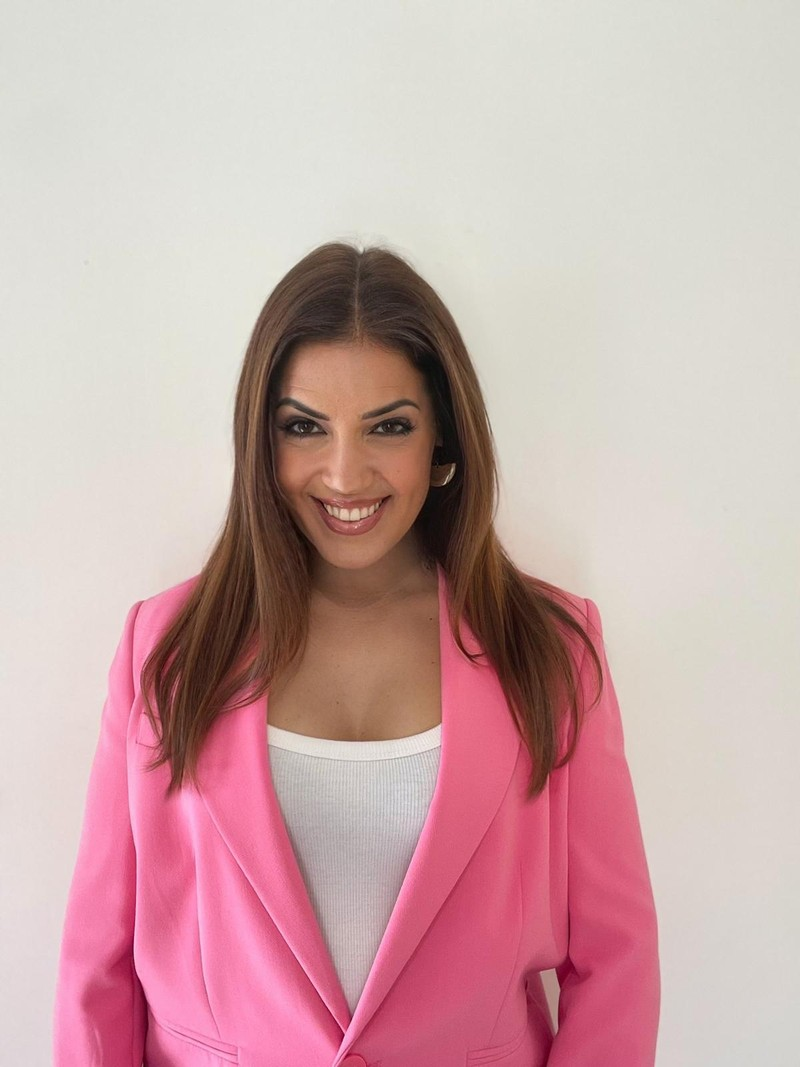
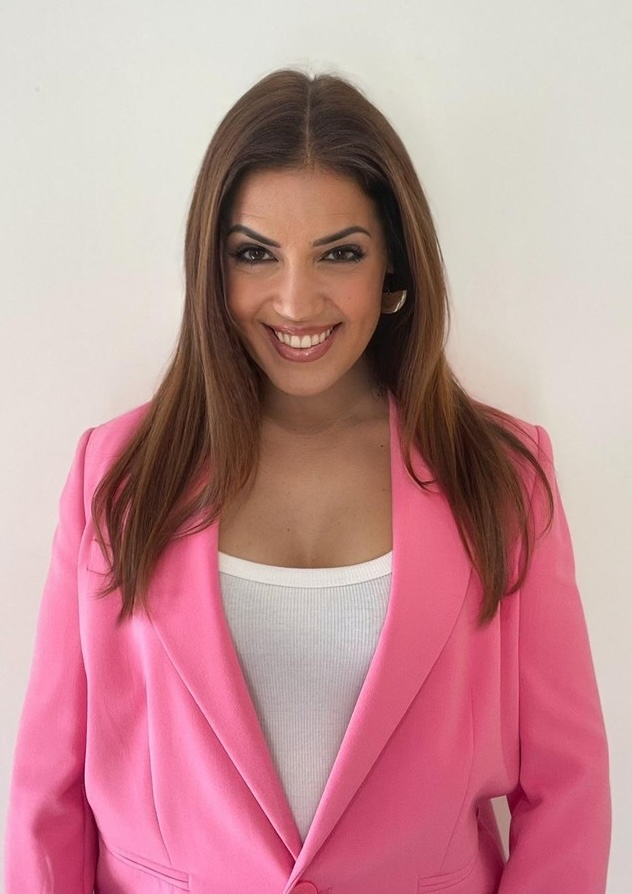
img

diff --git a/formazione.html b/formazione.html
@@ -250,7 +250,7 @@
           <h2 style="margin:0.8rem 0 1.5rem;">Corsi Serali per Adulti</h2>
           <p class="testo-grande">Per chi lavora e desidera coltivare il teatro come vocazione parallela. Corsi modulari in orario serale, accessibili tramite iscrizione diretta online.</p>
           <p style="margin-top:1rem;">I corsi serali sono pensati per adulti che desiderano avvicinarsi al teatro classico senza rinunciare ai propri impegni lavorativi. Ogni corso è autonomo e può essere seguito singolarmente o in combinazione con altri.</p>
-          <a href="iscrizioni.html#serali" class="btn btn--oro" style="margin-top:2rem; display:inline-block;">Iscriviti ora</a>
+          <a href="iscrizioni.html#form-iscrizione" class="btn btn--oro" style="margin-top:2rem; display:inline-block;">Iscriviti ora</a>
         </div>
 
         <div class="griglia-2" style="gap:2rem;">

diff --git a/TECH_NOTES.md b/TECH_NOTES.md
@@ -1,0 +1,165 @@
+# TECH_NOTES — Accademia Prosopon
+
+Note tecniche per chi metterà mano al sito dopo il go-live. Non sostituiscono `README.md` (operativo); qui si spiega perché certe scelte sono state fatte.
+
+---
+
+## 1. Stack e principi
+
+- **HTML/CSS/JS vanilla**, zero build step, zero dipendenze npm.
+- Una sola **`style.css`** mobile-first con custom properties in `:root`.
+- JS inline per pagina, scritto a mano, niente framework.
+- Lingua: it (`<html lang="it">`), encoding UTF-8.
+- Hosting target: qualsiasi static host (Netlify/Vercel/Pages/server LAMP).
+
+Motivazione: sito istituzionale a contenuto a bassa frequenza di update, basso volume, alta longevità. Un build step obbligherebbe il committente a ricostruirlo a ogni piccola modifica testuale; un framework introdurrebbe debito tecnico.
+
+---
+
+## 2. Pagine
+
+| File | Note tecniche |
+|------|----------------|
+| `index.html` | Hero LCP-critical (no `loading="lazy"` sull'immagine fold). JSON-LD `EducationalOrganization` solo qui. CTA hero: "Iscriviti alle audizioni" + "Scopri il triennio". |
+| `accademia.html` | Anchor `#direttore-artistico`. Sezione "Voci" (`#voci`) con 3 quote, l'ultima placeholder onesto. |
+| `formazione.html` | 4 tab WAI-ARIA (`role="tablist"` / `role="tab"` / `role="tabpanel"`). Navigazione tastiera frecce/Home/End. Ancore mobile sticky `.ancore-corsi`. |
+| `docenti.html` | 8 modali full-screen, focus trap, riapertura via hash (`#nome-docente` → JS apre `#modale-nome-docente`). 7 link CV (Pentericci esclusa). |
+| `eventi.html` | 4 card placeholder con CTA "Avvisami quando esce" → newsletter. Stato "vuoto" evocativo. |
+| `iscrizioni.html` | 2 form (audizione triennale, iscrizione corsi serali) + FAQ accordion accessibile. Banda scarcity sotto hero. |
+| `contatti.html` | Form contatto + form newsletter. Pre-compilazione oggetto via querystring `?richiesta=piano-triennale`. Direzione artistica + Segreteria. |
+| `privacy.html` | `noindex, follow`. Index interno cliccabile. Tabelle dati/finalità. |
+| `cookie.html` | `noindex, follow`. Snippet cookie banner pronto in `<pre>` commentato (non attivo). |
+
+---
+
+## 3. Architettura CSS
+
+### Custom properties (`:root`)
+
+```css
+--color-nero            #0e0d0b
+--color-grafite         (sezioni scure)
+--color-avorio          #f5f0e8        (background avorio chiaro)
+--color-avorio-scuro    (background blocchi info)
+--color-oro             #b8965a        (accent primario)
+--color-oro-chiaro      (accent su sfondo scuro)
+--color-oro-scuro       (border / dettagli)
+--color-link            #7a5f30        (link inline su avorio, AA ≥ 5.12:1)
+--color-grigio          (testo secondario)
+--color-grigio-chiaro   #a09a92        (testo footer su nero, AA ≥ 6.4:1)
+
+--font-titolo           'Cinzel', serif        (etichette)
+--font-display          'Cormorant Garamond'   (h1, h2)
+--font-corpo            'EB Garamond'          (paragrafi)
+```
+
+### Convenzioni di naming
+
+Ibrido BEM + utility class. Esempio:
+
+- `nav__menu`, `nav__link`, `nav__cta`         (BEM block-element)
+- `card`, `card--centro`, `card--padding-lg`   (BEM modifier)
+- `card__icona`, `card__titolo`, `card__testo` (BEM element)
+- `.spazio-sopra-md`, `.testo-centrato`        (utility)
+- `.btn`, `.btn--oro`, `.btn--contorno`        (componenti)
+
+### Regole globali importanti
+
+- `:focus-visible` outline oro 2px su `a, button, input, select, textarea` (a11y).
+- `.skip-link` come primo elemento di ogni `<body>` (a11y).
+- `main p a:not(.btn), main li a:not(.btn)` → underline + `text-underline-offset` (link inline ben distinguibili).
+- `.sezione--scura` ha override per link inline (oro chiaro invece di `--color-link`).
+- `.form-errore` con `aria-live="polite"` su input.
+- `.form-reassurance` micro-rassicurazioni accanto al submit (Neuro).
+- `.banda-scarcity` strip dorata per urgency etico.
+
+---
+
+## 4. Flusso form (Formspree)
+
+Tutti e 4 i form puntano a `https://formspree.io/f/REPLACE_WITH_YOUR_ID` e vanno aggiornati con l'ID reale prima del go-live (vedi `TODO.md` blocco placeholder).
+
+Pattern condiviso:
+
+1. `<form>` con `action`, `method="POST"`, `novalidate` (la validazione è fatta da JS per offrire messaggi in voce di brand).
+2. Per ogni input: `<label>` + `<input>` + `<span class="form-errore" aria-live="polite">`.
+3. JS: funzione `validaCampo(input)` per ogni `blur` e `submit`. Mappa `MSG_VUOTO` per nome campo → messaggio brand-coerente.
+4. `<div class="form-stato" role="status" aria-live="polite">` riceve gli stati di submit (loading/success/error) annunciati a screen reader.
+5. Checkbox `name="consenso_privacy" required` con link a `privacy.html` (target `_blank`).
+6. `.form-reassurance` accanto al pulsante con micro-rassicurazioni ("Risposta entro 48h", "Niente spam"…).
+
+### Pre-compilazione oggetto
+
+`contatti.html` legge `?richiesta=piano-triennale` (querystring) e pre-compila il campo `oggetto` con valore tematico. Il link che attiva questo flusso è in `formazione.html:170` ("Richiedi il piano di studi").
+
+---
+
+## 5. SEO
+
+- `<link rel="canonical">` su tutte e 9 le pagine.
+- Open Graph completo (`og:type`, `og:locale=it_IT`, `og:title`, `og:description`, `og:image`, `og:url`, `og:site_name`).
+- Twitter Card (`twitter:card=summary_large_image` + tag relativi) sulle 7 pagine pubbliche.
+- `JSON-LD` `EducationalOrganization` solo su `index.html`.
+- `sitemap.xml` (esclude privacy/cookie, che hanno `noindex`).
+- `robots.txt` con `Disallow: /documenti/` (CV interni).
+- `<meta name="description">` unico per pagina (≤155 char).
+- `<meta robots="noindex, follow">` su `privacy.html` e `cookie.html`.
+
+---
+
+## 6. Accessibilità
+
+- Skip link "Vai al contenuto" come primo elemento del `<body>`.
+- `<header>` semantico per nav, `<main id="contenuto">`, `<footer>`.
+- `aria-current="page"` sul link nav della pagina attiva (sulle 7 pagine pubbliche).
+- Hamburger menu: `aria-expanded`, `aria-controls`.
+- FAQ accordion: `aria-expanded`, `aria-controls`, `id`, wrapping `<h3>`.
+- Tab formazione: `role="tablist"`, `role="tab"`, `role="tabpanel"`, `aria-selected`, navigazione tastiera con frecce/Home/End.
+- Modali docenti: `role="dialog"`, `aria-modal="true"`, `aria-labelledby`, focus trap, ripristino focus alla chiusura, gestione `Esc` e click outside, gestione `Space` oltre a `Enter`.
+- `:focus-visible` globale outline oro 2px.
+- Tutti gli `img` hanno `alt` significativo (pattern "Ritratto di X").
+- Tutti gli `img` hanno `width`/`height` espliciti (anti-CLS).
+- Contrasti link e testo verificati ≥ AA (vedi `--color-link` e `--color-grigio-chiaro`).
+
+---
+
+## 7. Performance
+
+- Hero `index.html`: immagine senza `loading="lazy"`, `width`/`height` esplicite.
+- Tutte le altre `<img>`: `loading="lazy"`.
+- Google Fonts caricati via `preconnect` + `<link rel="stylesheet">` con `display=swap` (no `@import` per evitare blocking-render).
+- Nessun JavaScript di terze parti caricato in fondo (solo Formspree, e solo al submit).
+- Nessun analytics → niente cookie banner → niente blocking script.
+- (Da fare a deploy time): conversione foto docenti in WebP con `<picture>` fallback per ridurre del ~60% il peso di `docenti.html`.
+
+---
+
+## 8. Privacy / GDPR
+
+- `privacy.html` copre titolare, dati raccolti, finalità + base giuridica (art. 6 GDPR), responsabili esterni (Formspree, Google Fonts), trasferimenti extra UE (SCC + DPF), tempi di conservazione, diritti artt. 15-22, modalità di esercizio, reclamo Garante.
+- `cookie.html`: nessun cookie di analytics/profilazione attualmente. Snippet banner pronto e commentato in fondo, da attivare solo se in futuro vengono introdotti analytics o cookie di terze parti non tecnici.
+- Tutti e 4 i form hanno checkbox `consenso_privacy` obbligatorio con link a `privacy.html`.
+- Newsletter: implementata oggi come singolo opt-in (Formspree). **Per essere pienamente conforme si raccomanda di passare a un provider con double-opt-in (Mailchimp/Brevo/MailerLite/...) prima del lancio attivo della newsletter.** Fino ad allora il flag è da considerarsi soft.
+
+---
+
+## 9. Dipendenze esterne (al runtime)
+
+| Servizio | Uso | Note |
+|----------|-----|------|
+| Google Fonts | Caricamento Cormorant Garamond, EB Garamond, Cinzel | Solo CSS, nessun cookie persistente. Citato in privacy/cookie. |
+| Formspree | Backend dei 4 form | Endpoint placeholder `REPLACE_WITH_YOUR_ID`. Citato in privacy/cookie. |
+
+Nessun analytics, nessun social plugin, nessun video embed, nessuna mappa interattiva, nessun CDN JS.
+
+---
+
+## 10. Limiti noti / debito tecnico
+
+- Nav e footer sono **duplicati a mano** sulle 9 pagine. Modifica = 9 edit. Soluzione futura: SSI/include o piccolo build step (Eleventy, Astro). Per ora SCOPE OUT.
+- 4 endpoint Formspree placeholder.
+- Foto docenti ancora in JPG (no WebP).
+- Favicon solo SVG; PNG 16/32 e apple-touch-icon non generabili senza tool grafico.
+- CV Pentericci mancante.
+- Indirizzo sede operativa e dati legali (P.IVA, ragione sociale) ancora placeholder in `privacy.html` e `contatti.html`.
+- Mappa in `contatti.html` è un blocco statico "in arrivo", non un embed reale.

diff --git a/README.md b/README.md
@@ -1,0 +1,134 @@
+# Accademia di Teatro Classico Prosopon — sito web
+
+Sito istituzionale statico dell'Accademia di Teatro Classico Prosopon (Roma, 2025).
+9 pagine HTML, un solo foglio di stile, zero build step, zero dipendenze JS runtime.
+
+---
+
+## Struttura del repository
+
+```
+Accademia_prosopon/
+├── index.html              # Home
+├── accademia.html          # Chi siamo, missione, direttore artistico, "Voci"
+├── formazione.html         # Triennale + serali + laboratori + masterclass (4 tab)
+├── docenti.html            # 8 docenti con modali full-screen
+├── eventi.html             # Spettacoli & eventi (placeholder + newsletter strip)
+├── iscrizioni.html         # Audizioni triennale + iscrizione corsi serali (FAQ accordion)
+├── contatti.html           # Form contatto + form newsletter
+├── privacy.html            # Informativa privacy GDPR (noindex)
+├── cookie.html             # Cookie policy (noindex)
+│
+├── style.css               # CSS unico, mobile-first, variabili in :root
+├── favicon.svg             # Lettera Π oro su nero
+├── site.webmanifest        # PWA-light manifest
+├── sitemap.xml             # Sitemap (esclude privacy/cookie noindex)
+├── robots.txt              # Disallow /documenti/ (CV interni)
+├── .gitignore
+│
+├── assets/
+│   ├── home.webp           # Hero background
+│   └── docenti/            # 8 ritratti docenti (jpg)
+│
+├── documenti/              # NON pubblicato (Disallow in robots)
+│   ├── cv/                 # 7 PDF dei CV docenti (Pentericci esclusa)
+│   ├── BIO DOCENTI .pages  # interno (ignorato via .gitignore)
+│   └── Piano di lavorazione .pages
+│
+├── TODO.md                 # Tracker dei 4 agenti senior
+├── TECH_NOTES.md           # Scelte tecniche e architettura
+└── README.md               # Questo file
+```
+
+---
+
+## Servire il sito in locale
+
+Il sito è puramente statico, quindi è sufficiente un server HTTP locale per testarlo.
+
+```bash
+# Python 3 (built-in)
+python3 -m http.server 8000
+
+# oppure Node (npx, no install)
+npx serve .
+
+# oppure PHP
+php -S localhost:8000
+```
+
+Apri quindi `http://localhost:8000` nel browser.
+
+> Nota: aprire i file con `file://` può funzionare per molte pagine, ma rompe i fetch
+> di Formspree, le ancore `?richiesta=...` e i form. Usa sempre un server locale.
+
+---
+
+## Stack
+
+- HTML5 semantico (`<header>`, `<main>`, `<article>`, `<section>`, `<footer>`)
+- CSS3 puro, custom properties, mobile-first, niente framework
+- JavaScript vanilla inline per: hamburger menu, tab, accordion FAQ, modali docenti (focus trap), validazione form
+- Google Fonts (Cormorant Garamond + EB Garamond + Cinzel) via `<link rel="preconnect">` + `display=swap`
+- Form: integrazione Formspree (endpoint placeholder, vedi sotto)
+
+Nessun build step, nessun bundler, nessun pacchetto npm.
+
+---
+
+## Pre-deploy checklist
+
+### 1. Sostituire i placeholder
+
+Vedi sezione finale del `TODO.md` per la lista completa. Sintesi:
+
+- `REPLACE_WITH_YOUR_ID` → ID Formspree reale (4 occorrenze: 2 in `iscrizioni.html`, 2 in `contatti.html`)
+- `accademiaprosopon.it` (dominio) → confermare o sostituire con il dominio reale (canonical, OG, sitemap, robots, JSON-LD)
+- `[email redacted]` → configurare la casella reale lato MX/DNS oppure sostituire l'indirizzo
+- Dati legali (P.IVA, ragione sociale, sede legale) → integrare in `privacy.html` quando disponibili
+- Indirizzo sede operativa → integrare in `contatti.html` (oggi: "Sede operativa a Roma. Indirizzo completo comunicato in fase di colloquio")
+- Mappa Maps reale → sostituire il blocco placeholder in `contatti.html`
+
+### 2. Test prima del go-live
+
+Eseguire **manualmente** in browser reale (non automatizzabili da CLI):
+
+- [ ] Lighthouse (Performance, Accessibility, SEO, Best Practices) — target ≥ 90 ciascuno
+- [ ] Validatore W3C HTML su tutte e 9 le pagine
+- [ ] Validatore CSS sul `style.css`
+- [ ] Test responsive a 375 / 768 / 1024 / 1440 px
+- [ ] Test funzionale di tutti e 4 i form (post-Formspree configurato)
+- [ ] Test focus trap modali docenti (Tab + Shift+Tab + Esc)
+- [ ] Test screen reader (almeno VoiceOver su macOS o NVDA su Windows)
+- [ ] Test apertura modali da homepage (`docenti.html#puglisi` ecc.)
+
+### 3. Asset
+
+- [ ] (Opzionale) Convertire le 8 foto docenti in WebP con `<picture>` fallback
+  ```bash
+  for f in assets/docenti/*.jpg; do
+    cwebp -q 80 -resize 800 0 "$f" -o "${f%.jpg}.webp"
+  done
+  ```
+- [ ] (Opzionale) Generare PNG 16/32 e apple-touch-icon 180 dal favicon SVG
+- [ ] CV mancante per Caterina Pentericci (oggi: link "Scarica CV" non presente nella sua modale)
+
+### 4. Hosting
+
+Il sito è pensato per un hosting statico (Netlify, Vercel, GitHub Pages, Cloudflare Pages, server LAMP base). Non richiede Node, runtime, database né CMS. Cache consigliata: 1 anno per `/assets/*` con cache-busting via filename, no-cache per `*.html`.
+
+---
+
+## Convenzioni
+
+- Lingua: italiano (`<html lang="it">`)
+- Email canale ufficiale: `[email redacted]` (placeholder, da configurare)
+- Email diretta direttore: `[email redacted]` (presente solo in `contatti.html` come "Direzione artistica")
+- Nessun cookie analytics o di profilazione attivi → nessun cookie banner richiesto allo stato attuale
+
+---
+
+## Riferimenti incrociati
+
+- `TODO.md` — tracker pre-launch dei 4 agenti senior (Coder, UX, Neuromarketer, Auditor) + sezione finale "Placeholder da sostituire"
+- `TECH_NOTES.md` — scelte architetturali, struttura CSS, flusso form, note SEO

diff --git a/TODO.md b/TODO.md
@@ -130,33 +130,34 @@
 ## 🔍 SENIOR AUDITOR — GDPR, QA finale, compliance
 
 ### GDPR / Privacy
-- [ ] Creare pagina `privacy.html` con informativa completa
-- [ ] Creare pagina `cookie.html` con cookie policy
-- [ ] Aggiungere link a privacy/cookie nel footer di tutte le pagine
-- [ ] Aggiungere checkbox consenso GDPR obbligatorio sui form `iscrizioni.html` (entrambi)
-- [ ] Aggiungere checkbox consenso GDPR sul form contatti `contatti.html`
-- [ ] Verificare informativa newsletter e double-opt-in (nota in TODO se richiede backend)
-- [ ] Aggiungere cookie banner conforme se introdotti analytics o cookie non tecnici
+- [x] Creare pagina `privacy.html` con informativa completa (Auditor) — informativa GDPR completa: titolare, dati raccolti per ciascun modulo, finalità + basi giuridiche (art. 6), responsabili esterni (Formspree, Google Fonts), trasferimenti extra UE (SCC + DPF), tempi conservazione, diritti artt. 15-22, modalità esercizio, reclamo Garante. Indice cliccabile, `noindex, follow`. Placeholder dati legali (P.IVA, ragione sociale, sede legale) marcati esplicitamente da sostituire.
+- [x] Creare pagina `cookie.html` con cookie policy (Auditor) — policy completa: nessun cookie di analytics/profilazione attivi, sezione Formspree + Google Fonts, istruzioni gestione cookie nei 5 browser principali, snippet banner pronto e commentato in `<pre>` per attivazione futura.
+- [x] Aggiungere link a privacy/cookie nel footer di tutte le pagine (Auditor) — verificato: tutti e 9 i footer (incluse privacy/cookie) hanno `<a href="privacy.html">Privacy</a> · <a href="cookie.html">Cookie</a>` nel `.footer__bottom`.
+- [x] Aggiungere checkbox consenso GDPR obbligatorio sui form `iscrizioni.html` (entrambi) (Auditor) — checkbox già presente da Coder; AGGIUNTO link a `privacy.html` (target `_blank`) nelle label di entrambi i form (audizione + iscrizione corso serale), che prima erano testo piatto senza link.
+- [x] Aggiungere checkbox consenso GDPR sul form contatti `contatti.html` (Auditor) — verificato: entrambi i form (contatto + newsletter) hanno checkbox + link a `privacy.html` correttamente.
+- [~] Verificare informativa newsletter e double-opt-in (Auditor) — singolo opt-in oggi (Formspree). Per piena conformità GDPR/CAN-SPAM si raccomanda passaggio a provider con DOI (Mailchimp/Brevo/MailerLite/...) prima del lancio attivo della newsletter. Out-of-scope tecnico per il sito statico, è un punto di backend/infra. Documentato in `TECH_NOTES.md` §8.
+- [x] Cookie banner se introdotti analytics o cookie non tecnici (Auditor) — NON OBBLIGATORIO ad oggi (no analytics, no profilazione, no social plugin, no embed video/mappe). Snippet pronto e commentato in fondo a `cookie.html` (sezione 6) per attivazione futura. CONDIZIONE: se in futuro vengono introdotti GA/Plausible/Matomo, embed YouTube/Vimeo, Maps interattive, social plugin → attivare lo snippet, accompagnarlo con blocco preventivo degli script e aggiornare `cookie.html` §2.
 
 ### Consistency check
-- [ ] Verificare che tutti i link interni di nav e footer puntino a target esistenti
-- [ ] Verificare che ogni img src nei .html corrisponda a un file reale
-- [ ] Verifica conteggio "8 Docenti" annunciato vs reali su `docenti.html`
-- [ ] Aggiungere foto Caterina Pentericci anche nel set duplicato (se si tiene quella cartella) oppure verificare consistenza unica
-- [ ] Verifica che dopo il refactor i 7 CV PDF siano linkati o rimossi (no dead asset)
+- [x] Verificare che tutti i link interni di nav e footer puntino a target esistenti (Auditor) — tutti i link nav/footer puntano a file esistenti. Bug minore trovato e CORRETTO: `formazione.html:253` puntava a `iscrizioni.html#serali` (ancora inesistente) → cambiato in `iscrizioni.html#form-iscrizione`. Le ancore `docenti.html#nome` (puglisi/rossetto/sarti/pentericci) non sono ID HTML reali ma vengono intercettate dal JS `apriDocente(hash)` che apre la modale corrispondente — comportamento corretto e voluto.
+- [x] Verificare che ogni img src nei .html corrisponda a un file reale (Auditor) — verificate tutte le `img src` in tutte e 9 le pagine. Tutte le 8 foto docenti + `home.webp` esistono in `assets/`. Nessun riferimento orfano.
+- [x] Verifica conteggio "8 Docenti" annunciato vs reali su `docenti.html` (Auditor) — homepage dichiara "8 Docenti" (riga `index.html:289`), `docenti.html` ha 8 articoli card-docente + 8 modali (`#modale-puglisi/rossetto/sarti/rizzo/marsico/viola/mascetta/pentericci`). Coerenza confermata.
+- [x] Aggiungere foto Caterina Pentericci (Auditor) — `assets/docenti/caterina-pentericci.jpg` esiste, è linkata sia su index.html (4 card docente) sia su docenti.html (card + modale). Cartella duplicata "Foto docenti " già rimossa da Coder. Consistenza unica confermata.
+- [x] Verifica che dopo il refactor i 7 CV PDF siano linkati o rimossi (Auditor) — verificati 7 link `documenti/cv/CV - *.pdf` con attributo `download` dalle modali corrispondenti (Puglisi, Rossetto, Sarti, Rizzo, Marsico, Viola Grosso, Mascetta). Tutti i 7 file PDF esistono fisicamente in `documenti/cv/`. Pentericci correttamente esclusa (CV non disponibile). Cartella `/documenti/` esclusa via `robots.txt`.
 
 ### QA finale
-- [ ] Test apertura/chiusura modali docenti su tutti i 8 docenti (incluso ESC, click fuori, tasto Tab)
-- [ ] Test responsive a 375px / 768px / 1024px / 1440px
-- [ ] Test compilazione + submit di tutti i form
-- [ ] Test navigazione tastiera (Tab) su tutta la home
-- [ ] Lighthouse audit (Performance, Accessibility, SEO, Best Practices) — target ≥90 per ciascuno
-- [ ] Validatore HTML W3C (no errori critici)
-- [ ] Validatore CSS
+- [~] Test apertura/chiusura modali docenti su tutti i 8 docenti (Auditor) — STATIC CHECK ok: 8 modali con `role="dialog"`, `aria-modal="true"`, `aria-labelledby`, focus trap, ripristino focus, gestione Esc + click outside + Space/Enter sulle card. Hash routing `apriDocente(window.location.hash)` presente. **TEST REALE BROWSER richiesto dall'utente** (incluso ESC + click outside + Tab/Shift+Tab in tutti gli 8 modali).
+- [ ] Test responsive 375 / 768 / 1024 / 1440 (DA UTENTE) — non eseguibile da CLI, richiede browser DevTools.
+- [ ] Test compilazione + submit di tutti i form (DA UTENTE) — richiede ID Formspree reale (oggi placeholder).
+- [ ] Test navigazione tastiera Tab su tutta la home (DA UTENTE) — richiede browser.
+- [ ] Lighthouse audit (DA UTENTE) — non eseguibile senza browser headless. Target ≥ 90 per Performance/Accessibility/SEO/Best Practices.
+- [ ] Validatore HTML W3C (DA UTENTE) — eseguire su https://validator.w3.org per tutte e 9 le pagine.
+- [ ] Validatore CSS (DA UTENTE) — eseguire su https://jigsaw.w3.org/css-validator.
+- [x] QA statica: ID duplicati, attributi aria-* malformati, tag chiusi (Auditor) — pass su tutte e 9 le pagine: nessun ID duplicato (i 4 form hanno suffissi `-c/-nl/-aud/-isc`), `aria-current="page"` solo sulle 7 pagine pubbliche, `aria-controls`/`aria-expanded`/`aria-labelledby` ben formati su nav/FAQ/tab/modali. `id="hamburger"` e `id="navMenu"` univoci per pagina.
 
 ### Documentazione
-- [ ] Creare/aggiornare `README.md` con descrizione progetto, come servirlo localmente, deploy
-- [ ] Creare `TECH_NOTES.md` con scelte tecniche e dependency
+- [x] Creare/aggiornare `README.md` (Auditor) — creato `README.md`: descrizione progetto, struttura cartelle, come servirlo localmente (`python3 -m http.server 8000` e alternative), checklist pre-deploy, lista placeholder, riferimenti incrociati a TODO/TECH_NOTES.
+- [x] Creare `TECH_NOTES.md` (Auditor) — creato `TECH_NOTES.md`: stack scelto (vanilla, no build), pagina-per-pagina, struttura CSS (custom properties, naming BEM+utility, regole globali), flusso form Formspree con pattern condiviso, SEO, accessibilità, performance, GDPR, dipendenze runtime, limiti noti / debito tecnico.
 
 ---
 
@@ -168,3 +169,4 @@
 | 2026-05-04 | Coder  | Hardening tecnico completo: 7 pagine HTML rifatte (semantica `<header>/<main>/<article>`, skip-link, OG/Twitter/canonical, JSON-LD su index, favicon SVG + manifest, sitemap.xml, robots.txt, .gitignore). 4 form integrati con Formspree (endpoint placeholder) + validazione + `aria-live`. CSS: rimosso `@import` Google Fonts, aggiunte regole `:focus-visible`, `.skip-link`, `.form-errore`, hero-bg → `home.webp`. Modali docenti con focus trap + Space/Enter + link CV. Tab Formazione accessibili (role/aria + frecce). FAQ accordion accessibile. Pulizia: rimossi `.DS_Store`, `home.png`, `Image.jpeg`, cartella duplicata "Foto docenti ". WebP foto docenti rimandato a tool esterno. |
 | 2026-05-04 | Neuro  | Pass conversion + trust completa. **Trust:** `contatti.html` riscritto wording sede + mappa placeholder accessibile (in attesa di indirizzo reale → 2 punti `[~]`). Email istituzionale `[email redacted]` aggiunta nel footer di tutte e 7 le pagine per coerenza. Nuova sezione `#direzione-artistica` in homepage (foto + quote brand + bio + 2 CTA verso accademia/docenti, con ancora `#direttore-artistico` aggiunta in `accademia.html`). Sezione "Voci dell'Accademia" (`#voci`) in `accademia.html`: 3 quote, l'ultima placeholder onesto. **CTA & funnel:** audit completo, ogni pagina ha almeno 1 CTA conversion. CTA hero homepage cambiato in "Iscriviti alle audizioni / Scopri il triennio" (e replicato in CTA finale). Aggiunti CTA conversion finali su `docenti.html` (mancante) e `formazione.html`. `.banda-scarcity` (CSS globale) inserita su homepage e iscrizioni: wording "Audizioni in apertura · A.A. 2025–2026" senza scadenze inventate. **Microcopy:** verificati i 3 fix typo (già applicati da UX), riscritti tutti e 4 i success message in voce di brand (es. "Fatto. Il tuo nome è ora tra le voci di Prosopon — benvenuto/a."). Aggiunta classe `.form-reassurance` con micro-rassicurazioni accanto a tutti e 4 i pulsanti submit ("Risposta entro 48h", "Niente spam", "I tuoi dati restano tuoi", ecc.). **Eventi:** 4 card placeholder riscritte con "data in definizione" + link "Avvisami quando esce" → newsletter; strip newsletter di `eventi.html` rinforzata in voce funnel ("Vuoi essere il primo a saperlo?"). |
 | 2026-05-04 | UX     | Pass design completa. Contrasti: introdotte `--color-link` (#7a5f30) e `--color-grigio-chiaro` (#a09a92), entrambe AA-conformi (5.12:1 e 6.4:1). Link inline: underline globale per `main p/li a:not(.btn)` + variante `.sezione--scura` con oro chiaro. Componenti: classi utility `.card--centro`, `.card__icona/__titolo/__testo/__cta`, `.intro-large`, `.cta-band`, `.testo-centrato`, `.spazio-*`, `.docente-circle`, `.evento-card--prossimo`/`.evento-badge`, `.ancore-corsi`. Index: 3 card formazione + 4 card docente (ora link reali con `aria-label` + ancora a modale) + CTA finale rifattorizzati. Eventi: badge "Prossimo evento" più visibile, stato vuoto evocativo. Formazione: tab attivo rinforzato (border 3px + background + box-shadow), masterclass empty state riscritto, ancore mobile sticky. Mobile: hero h1 `clamp(2rem, 8vw, 3.2rem)` + letter-spacing 0.04em sotto 480px. Microcopy: messaggi errore form mappati per campo in voce di brand (`contatti.html` + `iscrizioni.html`), stati submit/error riscritti. Identità istituzionale: in `contatti.html` aggiunto canale "Segreteria: [email redacted]" (da configurare) accanto all'email del direttore; offuscamento email/telefono deliberatamente NON applicato (peggiora UX). |
+| 2026-05-04 | Auditor | **GDPR:** verificato che `privacy.html` (informativa completa, indice cliccabile, art. 6 GDPR, responsabili esterni, trasferimenti extra UE, art. 15-22, reclamo Garante) e `cookie.html` (no analytics, no profilazione, snippet banner pronto e commentato per attivazione futura) erano già presenti e ben fatti — confermati come `[x]`. Aggiunto link a `privacy.html` (target `_blank`) nelle 2 label di consenso GDPR di `iscrizioni.html` (audizione + iscrizione corso serale): prima erano testo piatto. Footer privacy/cookie verificato su tutte e 9 le pagine (incluse privacy/cookie). **Newsletter double-opt-in:** flag `[~]` — Formspree è singolo opt-in, raccomandato passaggio a provider DOI (Mailchimp/Brevo) prima del lancio attivo. **Cookie banner:** non obbligatorio ad oggi (no analytics/profilazione/social/embed); snippet pronto e commentato in `cookie.html` §6 per attivazione futura condizionale. **Consistency:** tutte le 8 foto docenti + 7 CV PDF + `home.webp` esistono e sono linkati. Conteggio "8 docenti" coerente tra index e docenti.html. Bug minore CORRETTO: `formazione.html:253` puntava a `iscrizioni.html#serali` (ancora inesistente) → cambiato in `iscrizioni.html#form-iscrizione`. ID hamburger/navMenu univoci per pagina, ID dei 4 form suffissati `-c/-nl/-aud/-isc` (no duplicati). **Documentazione:** creati `README.md` (struttura, run locale, pre-deploy checklist) e `TECH_NOTES.md` (stack, CSS architecture, flusso form, SEO, a11y, GDPR, debito tecnico). Aggiunto in fondo a `TODO.md` blocco "Placeholder da sostituire prima del push" + blocco "Check che richiedono browser/tool reali (utente)". Lighthouse / W3C / responsive / screen reader / submit form documentati come task da eseguire all'utente — non automatizzabili da CLI. |